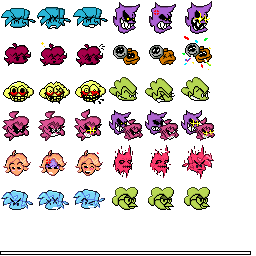
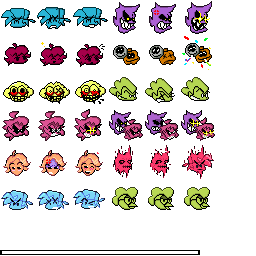
some bugs fixed and a new healthbar!!!

Changed region(s): [[0.0, 0.9688, 1.0, 1.0]]

diff --git a/src/stage.c b/src/stage.c
@@ -244,11 +244,11 @@ static u8 Stage_HitNote(PlayerState *this, u8 type, fixed_t offset)
 		 5, //SHIT
 	};
 	this->score += score_inc[hit_type];
-	this->refresh_score = true;
 
 	this->min_accuracy += 20;
 	this->max_accuracy += (hit_type * 10) + 20;
-	this->refresh_accuracy = true;
+
+	this->refresh_info = true;
 	
 	//Restore vocals and health
 	Stage_StartVocal();
@@ -370,10 +370,8 @@ static void Stage_NoteCheck(PlayerState *this, u8 type)
 		
 		this->health -= 1000;
 		this->score -= 5;
-		this->refresh_score = true;
-
 		this->miss++;
-		this->refresh_miss = true;
+		this->refresh_info = true;
 	}
 }
 
@@ -672,8 +670,8 @@ static void Stage_TimerTick(void)
 	);
 
 		//draw square length
-		RECT square_black = {0, 251, 111, 4};
-		RECT square_fill = {0, 251, (110 * (stage.timepassed) / (stage.timerlength * 60)), 4};
+		RECT square_black = {0, 250, 111, 5};
+		RECT square_fill = {0, 250, (110 * (stage.timepassed) / (stage.timerlength * 60)), 5};
 
 		RECT_FIXED square_dst = {
 		FIXED_DEC(-56,1),
@@ -806,7 +804,7 @@ static void Stage_DrawHealth(s16 health, u8 i, s8 ox)
 	}
 	
 	//Get src and dst
-	fixed_t hx = (128 << FIXED_SHIFT) * (10000 - health) / 10000;
+	fixed_t hx = (100 << FIXED_SHIFT) * (10000 - health) / 10000;
 	RECT src = {
 		(i % 2) * 108 + dying + winning,
 		(i / 2) * 36,
@@ -820,7 +818,7 @@ static void Stage_DrawHealth(s16 health, u8 i, s8 ox)
 		src.h << FIXED_SHIFT
 	};
 	if (stage.prefs.downscroll)
-		dst.y = -dst.y - FIXED_DEC(44,1);
+		dst.y = -dst.y - FIXED_DEC(46,1);
 
 	//invert icon
 	if (stage.mode == StageMode_Swap)
@@ -842,18 +840,18 @@ static void Stage_DrawHealthBar(s16 x, s32 color)
 	//Get src and dst
 	RECT src = {
 		0,
-	  251,
+	  250,
 		x,
-		4
+		5
 	};
 	RECT_FIXED dst = {
-		FIXED_DEC(-128,1),
+		FIXED_DEC(-100,1),
 		FIXED_DEC(90,1),
 		src.w << FIXED_SHIFT,
 		src.h << FIXED_SHIFT
 	};
 	if (stage.prefs.downscroll)
-		dst.y = -dst.y - dst.h;
+		dst.y = -dst.y - dst.h - FIXED_DEC(2,1);
 	
 	Stage_DrawTexCol(&stage.tex_hud1, &src, &dst, stage.bump, red >> 1, blue >> 1, green >> 1);
 }
@@ -956,10 +954,9 @@ static void Stage_DrawNotes(void)
 					Stage_MissNote(this);
 					this->health -= 475;
 					this->miss++;
-					this->refresh_miss = true;
 
 					this->max_accuracy += 20;
-					this->refresh_accuracy = true;
+					this->refresh_info = true;
 			}
 			
 			//Update current note
@@ -1383,17 +1380,18 @@ static void Stage_LoadState(void)
 		stage.player_state[i].health = 10000;
 		stage.player_state[i].combo = 0;
 		
-		stage.player_state[i].refresh_score = false;
 		stage.player_state[i].score = 0;
-		strcpy(stage.player_state[i].score_text, "Score: ?");
 
-		stage.player_state[i].refresh_miss = false;
 		stage.player_state[i].miss = 0;
-		strcpy(stage.player_state[i].miss_text, "Misses: 0");
 
-		stage.player_state[i].refresh_accuracy = false;
 		stage.player_state[i].min_accuracy = stage.player_state[i].max_accuracy = 0;
-		strcpy(stage.player_state[i].accuracy_text, "Accuracy: ?");
+
+		stage.player_state[i].refresh_info = false;
+
+		if (stage.mode != StageMode_2P)
+				strcpy(stage.player_state[i].info, "Score: ? | Misses: 0 | Accuracy: ?");
+		else
+				strcpy(stage.player_state[i].info, "Score: ? | Misses: 0");
 		
 		stage.player_state[i].pad_held = stage.player_state[i].pad_press = 0;
 	}
@@ -1582,6 +1580,7 @@ void Stage_Tick(void)
 	
 	if (Trans_Tick())
 	{
+		stage.flag &= ~STAGE_FLAG_PAUSED;
 		switch (stage.trans)
 		{
 			case StageTrans_Menu:
@@ -1902,25 +1901,6 @@ void Stage_Tick(void)
 			for (u8 i = 0; i < ((stage.mode == StageMode_2P) ? 2 : 1); i++)
 			{
 				PlayerState *this = &stage.player_state[i];
-						
-				//Get string representing number
-				if (this->refresh_score)
-				{
-					if (this->score != 0)
-						sprintf(this->score_text, "Score: %d0", this->score * stage.max_score / this->max_score);
-					else
-						strcpy(this->score_text, "Score: 0");
-					this->refresh_score = false;
-				}
-
-				if (this->refresh_miss)
-				{
-					if (this->miss != 0)
-						sprintf(this->miss_text, "Misses: %d", this->miss);
-					else
-						strcpy(this->miss_text, "Misses: 0");
-					this->refresh_miss = false;
-				}
 
 				static const char *rating_text[] = {
 				"You Suck!", // 0 - 9%
@@ -1943,10 +1923,8 @@ void Stage_Tick(void)
 				"- PFC", //100%
 			};
 
-				this->accuracy = (this->min_accuracy * 100) / (this->max_accuracy);
-
 				//making this for in the case of special ratings,like Nice!
-				static u8 rating;
+				u8 rating;
 
 				switch (this->accuracy)
 				{
@@ -1960,7 +1938,7 @@ void Stage_Tick(void)
 				}
 
 				//fc rating
-				static u8 fc;
+				u8 fc;
 
 				if (this->accuracy <= 79)
 					fc = 0;
@@ -1970,46 +1948,28 @@ void Stage_Tick(void)
 
 				else
 					fc = 2;
-						
-				//Get string representing number
-				if (this->refresh_accuracy)
+
+				this->accuracy = (this->min_accuracy * 100) / (this->max_accuracy);
+
+				if (this->refresh_info)
 				{
-					if (this->accuracy != 0)
-						sprintf(this->accuracy_text, "Accuracy:	 (%d%%)  %s  %s", this->accuracy, rating_text[rating], (this->miss == 0) ? fc_text[fc] : '\0');
+					if (stage.mode != StageMode_2P)
+						sprintf(this->info, "Score: %d0 | Misses: %d | Accuracy: (%d%%) %s  %s", this->score * stage.max_score / this->max_score, this->miss, this->accuracy, rating_text[rating], (this->miss == 0) ? fc_text[fc] : '\0');
 					else
-						strcpy(this->accuracy_text, "Accuracy: ?");
-					this->refresh_accuracy = false;
-				}
+						sprintf(this->info, "Score: %d0 | Misses: %d", this->score * stage.max_score / this->max_score, this->miss);
 
-				char text[0x100];
-
-				if (stage.mode != StageMode_2P)
-				{
-					sprintf(text, "%s | %s | %s", this->score_text, this->miss_text, this->accuracy_text);
-								
-						//Draw text
-						stage.font_cdr.draw(&stage.font_cdr,
-							text,
-							20, 
-							(stage.prefs.downscroll) ? -88 : 98,
-							FontAlign_Center,
-							"stage"
-						);
+					this->refresh_info = false;
 				}
-				else
-				{
-					sprintf(text, "%s | %s", this->score_text, this->miss_text);
-								
-						//Draw text
-						stage.font_cdr.draw(&stage.font_cdr,
-							text,
-							(i == 0) ? 80 : -80, 
-							(stage.prefs.downscroll) ? -88 : 98,
-							FontAlign_Center,
-							"stage"
-						);
-					}
-				}
+									
+				//Draw text
+				stage.font_cdr.draw(&stage.font_cdr,
+					this->info,
+					(stage.mode != StageMode_2P) ? 20 : (i == 0) ? 80 : -80, 
+					(stage.prefs.downscroll) ? -88 : 98,
+					FontAlign_Center,
+					"stage"
+				);
+			}
 					
 			//normal and swap healthbar
 			if (stage.mode != StageMode_2P)

diff --git a/tools/funkinchartpak/funkinchartpak.cpp b/tools/funkinchartpak/funkinchartpak.cpp
@@ -127,18 +127,23 @@ int main(int argc, char *argv[])
 		{
 			//Push main note
 			Note new_note;
+
+			//invalid type
+			if (j[1] < 0)
+				continue;
+			
 			int sustain = (int)PosRound(j[2], step_crochet) - 1;
 			new_note.pos = (step_base * 12) + PosRound(((double)j[0] - milli_base) * 12.0, step_crochet);
 			new_note.type = (uint8_t)j[1] & (3 | NOTE_FLAG_OPPONENT);
 			if (is_opponent)
 				new_note.type ^= NOTE_FLAG_OPPONENT;
-			if (j[3] == true)
+			if (j[3] == true || j[3] == "Alt Animation")
 				new_note.type |= NOTE_FLAG_ALT_ANIM;
 			else if ((new_note.type & NOTE_FLAG_OPPONENT) && is_alt)
 				new_note.type |= NOTE_FLAG_ALT_ANIM;
 			if (sustain >= 0)
 				new_note.type |= NOTE_FLAG_SUSTAIN_END;
-			if (((uint8_t)j[1]) & 8)
+			if (((uint8_t)j[1]) & 8 || j[3] == "Hurt Note")
 				new_note.type |= NOTE_FLAG_MINE;
 			
 			if (note_fudge.count(*((uint32_t*)&new_note)))

diff --git a/src/stage.h b/src/stage.h
@@ -156,17 +156,12 @@ typedef struct
 	s16 health;
 	u16 combo;
 	
-	boolean refresh_score;
 	s32 score, max_score;
-	char score_text[13];
-
-	boolean refresh_miss;
-	s32 miss;
-	char miss_text[13];
-
-	boolean refresh_accuracy;
+	s16 miss;
 	s32 min_accuracy, max_accuracy, accuracy;
-	char accuracy_text[0x80];
+
+	char info[65];
+	boolean refresh_info;
 	
 	u16 pad_held, pad_press;
 } PlayerState;
